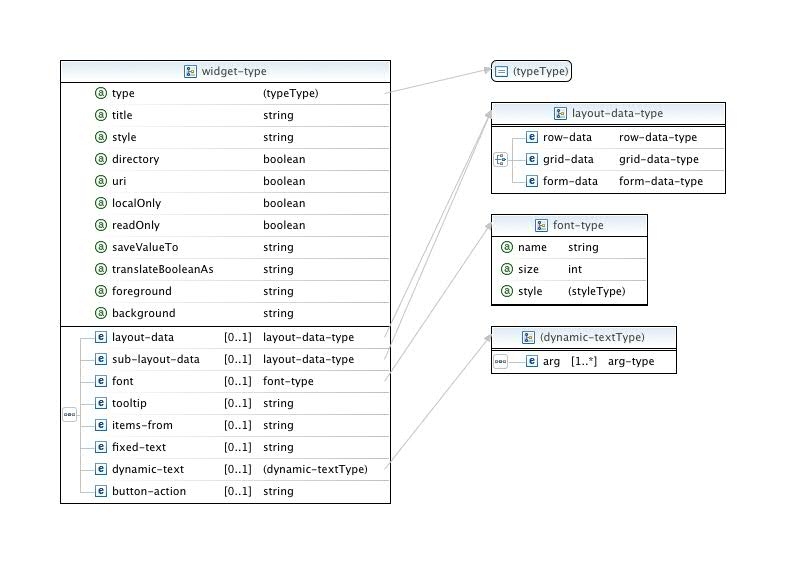
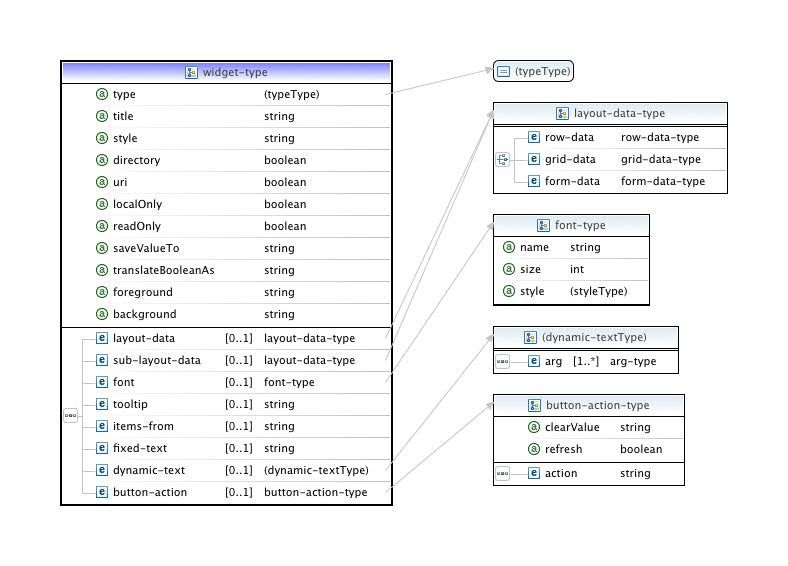
a few more corrections to the help page

diff --git a/rms/org.eclipse.ptp.rm.jaxb.help/html/JAXBHelpPage.html b/rms/org.eclipse.ptp.rm.jaxb.help/html/JAXBHelpPage.html
@@ -1392,11 +1392,15 @@
 		</tr>
 		<tr>
 			<td><code>button-action</code></td>
-			<td>applies to the <code>action</code> widget; the name of a <code>command</code>
-				defined in the XML; this can be one of the <code>start-up</code>, <code>shut-down</code>,
+			<td>applies to the <code>action</code> widget; the <code>button-action-type</code>
+				specifies the name of a command (<code>action</code>) defined in the
+				XML; this can be one of the <code>start-up</code>, <code>shut-down</code>,
 				commands, or a special <code>button-action</code> command (<b>note
 			</b>that it cannot, however, be a <code>-job</code> command, as the
-				Launch Tab has no link to submitted jobs).</td>
+				Launch Tab is not coupled to any submitted jobs); the <code>button-action-type</code>
+				also indicates whether the variable affected by the command should
+				be cleared prior to the command execution, and whether the launch
+				tab should be refreshed (default is true) afterwards</td>
 		</tr>
 	</table>
 	<br>
